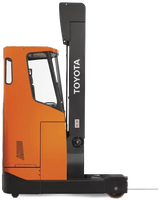
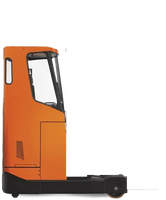
Fahrzeuge: Schubmast fährt vor/zurück, Staplermast neigt sich, Gabeln wie beim Stapler
Claude-Session: https://claude.ai/code/session_01GSjzxe2VGqLmRfApdXsdg9

Changed region(s): [[0.3313, 0.0, 0.7229, 0.9], [0.753, 0.87, 0.9639, 0.96]]

diff --git a/web/index.html b/web/index.html
@@ -301,18 +301,24 @@ body::before{content:"";position:fixed;left:61%;top:60%;width:min(760px,62vw);as
 body{padding-bottom:172px}
 .wrap{position:relative;z-index:1}
 .fz{position:absolute;bottom:9px;left:0;transform:translateX(-420px);animation:fahren 22s linear infinite;filter:drop-shadow(0 4px 3px rgba(0,0,0,.2))}
-.fz img{display:block;height:100%;width:auto}
-.fz img.g{position:absolute;left:0;top:0;animation:heben 4.4s ease-in-out infinite}
-.fz1{height:142px;animation-delay:0s}.fz1 img.g{--hub:-38%}
-.fz2{height:150px;animation-delay:-7.3s}.fz2 img.g{--hub:-34%;animation-delay:-1.5s}
-.fz3{height:80px;animation-delay:-14.6s}.fz3 img.g{--hub:-5%;animation-delay:-3s;animation-duration:3s}
+.fz img.k{display:block;height:100%;width:auto;position:relative}
+.fz .mast{position:absolute;inset:0}
+.fz .mast img{position:absolute;left:0;top:0;height:100%;width:auto}
+.fz .mast img.g{animation:heben 4.4s ease-in-out infinite}
+.fz .mast.neigen{transform-origin:61% 86%;animation:neigen 5.2s ease-in-out infinite}
+.fz .mast.schub{animation:schub 6s ease-in-out infinite}
+.fz1{height:142px;animation-delay:0s}.fz1 .mast img.g{--hub:-38%}
+.fz2{height:150px;animation-delay:-7.3s}.fz2 .mast img.g{--hub:-34%;animation-delay:-1.5s}
+.fz3{height:80px;animation-delay:-14.6s}.fz3 .mast img.g{--hub:-5%;animation-delay:-3s;animation-duration:3s}
+@keyframes neigen{0%,15%{transform:rotate(0)}35%,50%{transform:rotate(-3.5deg)}70%,85%{transform:rotate(2.5deg)}100%{transform:rotate(0)}}
+@keyframes schub{0%,15%{transform:translateX(0)}40%,65%{transform:translateX(16%)}90%,100%{transform:translateX(0)}}
 @keyframes fahren{0%{transform:translateX(-420px)}100%{transform:translateX(calc(100cqw + 40px))}}
 @keyframes heben{0%,22%{transform:translateY(0)}45%,62%{transform:translateY(var(--hub))}85%,100%{transform:translateY(0)}}
-@media (prefers-reduced-motion: reduce){.fz,.fz img.g{animation:none}.fz{position:static;transform:none;display:inline-block;margin:0 14px}.strasse{display:flex;align-items:flex-end;justify-content:center;padding-bottom:9px}}
+@media (prefers-reduced-motion: reduce){.fz,.fz img.g,.fz .mast{animation:none}.fz{position:static;transform:none;display:inline-block;margin:0 14px}.strasse{display:flex;align-items:flex-end;justify-content:center;padding-bottom:9px}}
 </style>
 </head>
 <body>
-<div class="strasse" aria-hidden="true"><div class="fz fz1"><img src="/fz-stapler-k.png" alt=""><img class="g" src="/fz-stapler-g.png" alt=""></div><div class="fz fz2"><img src="/fz-schubmast-k.png" alt=""><img class="g" src="/fz-schubmast-g.png" alt=""></div><div class="fz fz3"><img src="/fz-hubwagen-k.png" alt=""><img class="g" src="/fz-hubwagen-g.png" alt=""></div></div>
+<div class="strasse" aria-hidden="true"><div class="fz fz1"><img class="k" src="/fz-stapler-k.png" alt=""><div class="mast neigen"><img src="/fz-stapler-m.png" alt=""><img class="g" src="/fz-stapler-g.png" alt=""></div></div><div class="fz fz2"><div class="mast schub"><img src="/fz-schubmast-m.png" alt=""><img class="g" src="/fz-schubmast-g.png" alt=""></div><img class="k" src="/fz-schubmast-k.png" alt=""></div><div class="fz fz3"><img class="k" src="/fz-hubwagen-k.png" alt=""><div class="mast"><img class="g" src="/fz-hubwagen-g.png" alt=""></div></div></div>
 <div class="wrap">
   <header class="top">
     <div class="marke">
